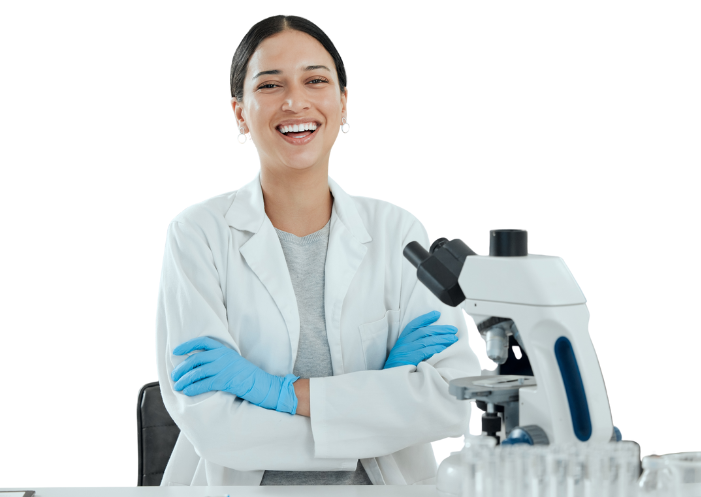
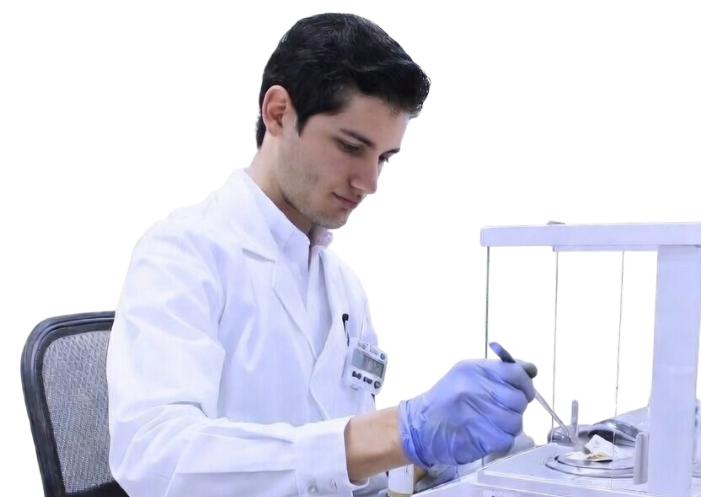
Imagenes slider

diff --git a/src/app/demo/home1/components/hero1/hero1.component.html b/src/app/demo/home1/components/hero1/hero1.component.html
@@ -41,7 +41,7 @@
          </div>
       </div>
       <div class="ca-slider-img-3 p-absolute">
-         <img src="assets/img/slider/truck-slide3.png" alt="">
+         <img src="assets/img/slider/truck-slide2.png" alt="">
       </div>
       <div class="ca-line-shape3">
          <img src="assets/img/shape/ca-shape3.1.png" alt="">
